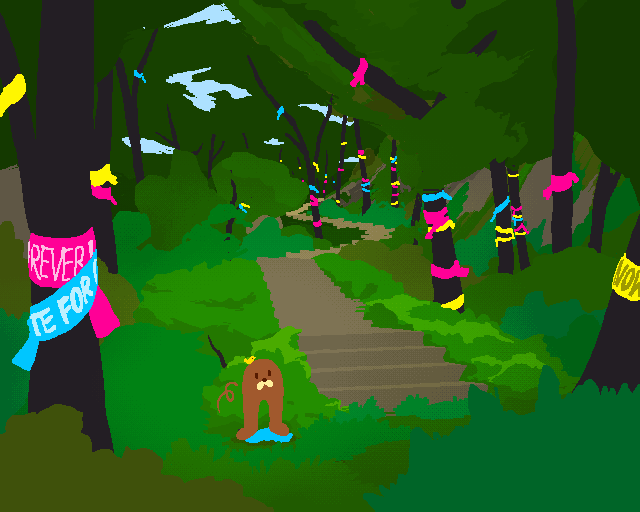
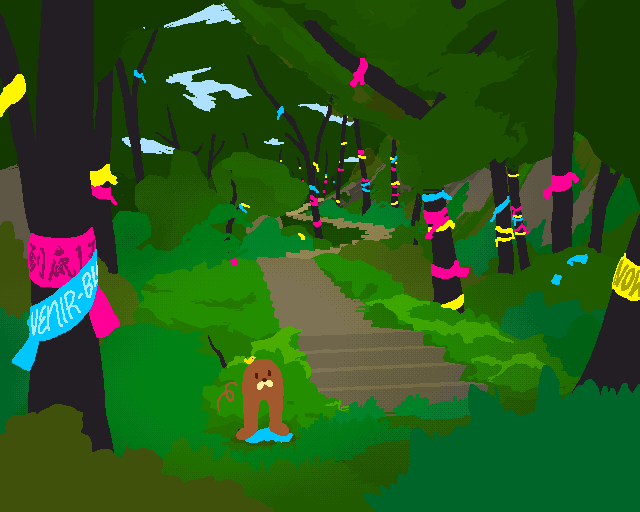
Update page 9

diff --git a/chapter_2/page_9/page.html b/chapter_2/page_9/page.html
@@ -15,9 +15,9 @@ next_link_text:
   <img src="stairs_get_up.png" class="panel_long"> <br>
   <div class="content">
     <div class="body_text">
-      <p>GONDOLA and his SMALL BIRD FRIEND find themselves in a dense TEMPERATE FOREST, bracketed on both sides by ROCKY SLOPES.</p>
+      <p>GONDOLA and his SMALL BIRD FRIEND find themselves at the foot of a well-maintained STONE STAIRCASE. It winds its way up layers of bushes and rocky slopes, into the broken canopy of a TEMPERATE FOREST.</p>
 
-      <p>Not far from GONDOLA's landing site, a cleanly cut STONE STAIRCASE winds into the canopy. Its adjacent trees are wrapped in SLOGANED RIBBONS that scream out in busy colors.</p>
+      <p>Along the STONE STAIRCASE, trees host busy RIBBONS that scream out in PRIMARY COLORS and BOLD TEXT. Some are wrapped over others, and some on the ground seem to have been torn off outright, but overall it appears that the battle between COLORS has come to a ROUGH STALEMATE.</p>
 
       <p>The RIBBONS rustle to greet a warm breeze. It carries the scent of FLOWERS and INDUSTRY.</p>
     </div>
